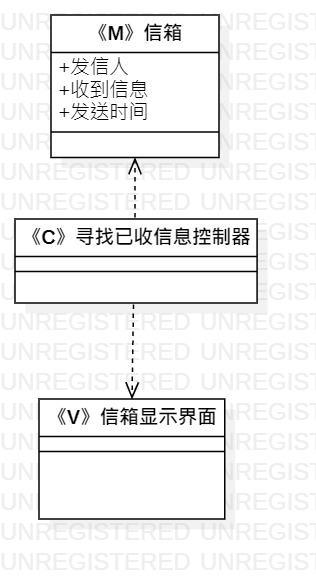
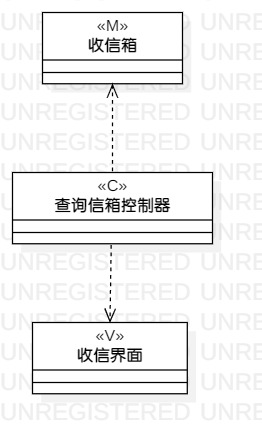
实验二、三微调修改 + 实验四、五

Changed region(s): [[0.0305, 0.0, 0.8244, 0.9097]]

diff --git a/students/1714080902512/lab4.md b/students/1714080902512/lab4.md
@@ -15,11 +15,9 @@
 ## 三、实验步骤
 
 1. 创建写短信的类图项目
-2. 根据用例规约创建待发信息类，查找待发信息控制器类
-3. 用依赖线连接查找信息控制器类，使用聚合线连接待发信息类
+2. 根据用例规约创建写短信控制器类、发送人模型、信息模型，发信编辑页面、成功发送页面，并用相应关系的线连接
 4. 创建查看收信箱的类图项目
-5. 根据用例规约创建信箱类，寻找已收信息控制器类，信箱显示界面类
-6. 用依赖线连接寻找已收信息控制器类图和其他
+5. 根据用例规约创建收信箱模型、信息模型，查询信箱控制器类，收信界面，并用相应关系的线连接
 
 ## 四、实验结果
 
